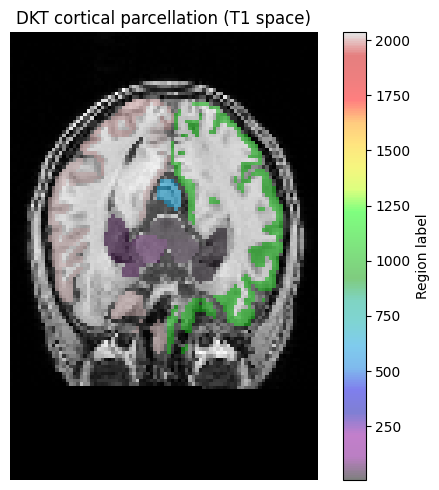
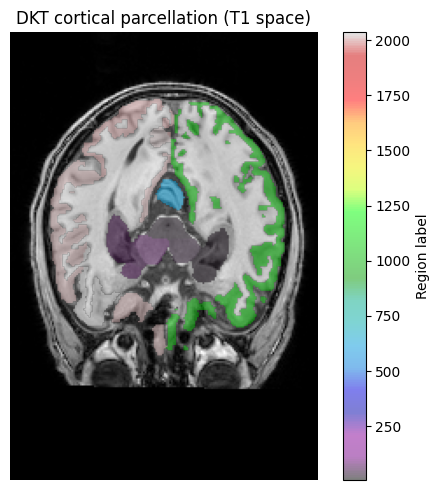
Update readthedocs with full T1 output

Changed region(s): [[0.0592, 0.1531, 0.7107, 0.7959]]

diff --git a/notebooks/example-region-analysis.py b/notebooks/example-region-analysis.py
@@ -38,7 +38,7 @@
 # Configure the following to spatially subsample the data and run through the demo more quickly at lower spatial resolution.
 
 # %% tags=["remove-cell"]
-SUBSAMPLE = True
+SUBSAMPLE = False
 SUBSAMPLE_FACTOR = 2
 
 # %% [markdown]

diff --git a/docs/tutorials/example-region-analysis.md b/docs/tutorials/example-region-analysis.md
@@ -71,9 +71,8 @@ t1_mid = struct_image.shape[1] // 2
 print(f"T1 shape: {struct_image.shape}")
 ```
 
-    Subsampled T1 by factor 2
-    T1 shape: (128, 128, 88)
-    
+    T1 shape: (256, 256, 176)
+
 
 ## 2. T1 bias correction
 
@@ -134,7 +133,7 @@ print(f"Unique b-values: {np.unique(np.round(bvals, -2))}")
     DWI shape: (96, 96, 19, 496)
     Unique b-values: [   0.  200.  400.  600.  800. 1000. 1200. 1400. 1600. 1800. 2000. 2200.
      2400. 2600. 2800. 3000.]
-    
+
 
 The two images have very different resolutions and field-of-view sizes — the DWI
 covers only a portion of the brain while the T1 spans the full volume. This is
@@ -165,9 +164,9 @@ plt.tight_layout()
 plt.show()
 ```
 
-    T1 voxel size:  [2. 2. 2.] mm
+    T1 voxel size:  [1. 1. 1.] mm
     DWI voxel size: [2.5 2.5 2.5] mm
-    
+
 
 
     
@@ -235,9 +234,8 @@ plt.tight_layout()
 plt.show()
 ```
 
-
     
-![png](example-region-analysis_files/example-region-analysis_14_0.png)
+![png](example-region-analysis_files/example-region-analysis_14_2.png)
     
 
 
@@ -278,9 +276,9 @@ plt.tight_layout()
 plt.show()
 ```
 
-    Parcellation shape: (128, 128, 88)
+    Parcellation shape: (256, 256, 176)
     Distinct labels (including background 0): 90
-    
+
 
 
     
